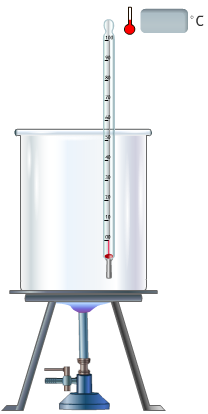
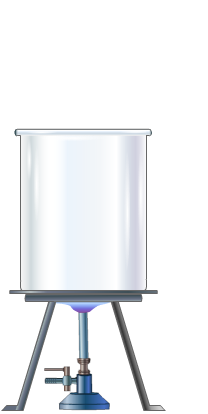
Feedback changes

Changed region(s): [[0.4904, 0.029, 0.5769, 0.6957], [0.5769, 0.0, 0.9808, 0.087]]

diff --git a/assets/js/main.js b/assets/js/main.js
@@ -78,12 +78,12 @@ $('.prevProcd').on('click', function () {
   $('.procdNum').text(procedCount + ")");
 });
 $('.nextProcd').on('click', function () {
-  if (procedCount < 6) {
+  if (procedCount < 5) {
     procedCount++;
     $('.nextProcd').css({ 'opacity': '1', 'pointer-events': 'all' });
     $('.prevProcd').css({ 'opacity': '1', 'pointer-events': 'all' });
   } else {
-    procedCount = 7;
+    procedCount = 6;
     $('.nextProcd').css({ 'opacity': '0.5', 'pointer-events': 'none' });
   }
   $('.procedSteps').css('display', 'none');
@@ -140,26 +140,37 @@ $('.closeProcd').on('mouseout', function () {
 
 $('.showObj').on('mouseover', function () {
   $(this).attr('src', 'assets/images/showObj.gif').css('cursor', 'pointer');
-  $('.contentContainer, .tableContainer, .mainstand, .graphTempVsTime, .threshold, .timerDiv').addClass("opac3")
-  if (procedCount == 1) {
+  $('.contentContainer, .tableContainer, .mainstand, .graphTempVsTime, .threshold, .timerDiv, .thermeterGroup, .standContainer .opactermometer').addClass("opac3")
 
-  }
-  if (procedCount == 2 || procedCount == 4) {
+  if (procedCount == 1 || procedCount == 3) {
     $(".standContainer .opacburner").show().removeClass("opac3")
   }
-  if (procedCount == 3) {
-    $(".standContainer .opactermometer").show().removeClass("opac3")
+  if (procedCount == 2) {
+    $(".standContainer .opactermometer").removeClass("opac3")
+    $(".standContainer .thermeterGroup").removeClass("opac3")
+  }
+  if (procedCount == 4) {
+    $(".threshold").removeClass("opac3")
+    $(".threshold .thresholdText").addClass("opac3")
+  }
+  if (procedCount == 5) {
+    $(".standContainer .opactermometer").removeClass("opac3")
+    $(".standContainer .thermeterGroup").removeClass("opac3")
+    $(".mainstand").removeClass("opac3");
+    $(".burner-base-opac").show();
   }
   if (procedCount == 6) {
-    $(".standContainer .opactermometer").show().removeClass("opac3")
+    $(".contentContainer").removeClass("opac3")
   }
 });
 
 $('.showObj').on('mouseout', function () {
   $(this).attr('src', 'assets/images/showObjM.gif');
-  $('.contentContainer, .tableContainer,.mainstand, .graphTempVsTime, .threshold, .timerDiv').removeClass("opac3")
+  $('.contentContainer, .tableContainer,.mainstand, .graphTempVsTime, .threshold, .timerDiv, .thermeterGroup').removeClass("opac3")
   $(".standContainer .opacburner").hide().removeClass("opac3")
-  $(".standContainer .opactermometer").hide().removeClass("opac3")
+  $(".standContainer .opactermometer").removeClass("opac3")
+  $(".threshold .thresholdText").removeClass("opac3")
+  $(".burner-base-opac").hide();
 });
 
 var timeSF2 = 20;
@@ -198,7 +209,7 @@ function ObserveHeating() {
   if (Temp2 > 30) {
     //water_mc.water_anim.gotoAndPlay(460);
     $(".boilingwater").show();
-    if($(".boilingwater").find("img").length<=0){
+    if ($(".boilingwater").find("img").length <= 0) {
       $(".boilingwater").append($('<img src="assets/images/crops/bbl-v2.gif">'))
     }
   }
@@ -209,8 +220,10 @@ function ObserveHeating() {
   updateTemperature(Temp2)
 }
 
-$(".burnerKnob").on('click', function () {
-  if ($(this).hasClass("off")) {
+$(".burnerKnob .layer1, .burnerKnob .layer2, .burnerKnob .layer3").on('click', function () {
+  //debugger;
+  
+  if ($(this).closest(".burnerKnob").hasClass("off")) {
     bur_mc_on()
   }
   else {
@@ -277,8 +290,29 @@ function bur_mc_off() {
   $(".threshold").show();
   $(".threshold .heatedToTempVal").text(Temp2);
   $(".burnerKnob").hide();
-  $(".boilingwater").hide();
+  //$(".boilingwater").hide();
   $(".boilingwater").empty();
+  if(Temp2>=30 && Temp2<40){
+    $(".boilingwater").append($('<img src="assets/images/crops/frame_30-40.gif">'))
+  }
+  if(Temp2>=40 && Temp2<50){
+    $(".boilingwater").append($('<img src="assets/images/crops/frame_40-50.gif">'))
+  }
+  if(Temp2>=50 && Temp2<60){
+    $(".boilingwater").append($('<img src="assets/images/crops/frame_50-60.gif">'))
+  }
+  if(Temp2>=60 && Temp2<70){
+    $(".boilingwater").append($('<img src="assets/images/crops/frame_60-70.gif">'))
+  }
+  if(Temp2>=70 && Temp2<80){
+    $(".boilingwater").append($('<img src="assets/images/crops/frame_70-80.gif">'))
+  }
+  if(Temp2>=80 && Temp2<90){
+    $(".boilingwater").append($('<img src="assets/images/crops/frame_80-90.gif">'))
+  }
+  if(Temp2>=90){
+    $(".boilingwater").append($('<img src="assets/images/crops/frame_90-100.gif">'))
+  }
 }
 function bur_mc_auto_off() {
   bur_mc_off();
@@ -327,7 +361,29 @@ function ObserveCooling() {
     }
     kp++;
   }
+  
   updateTemperature(currentTemp);
+  if(currentTemp<100 && currentTemp>=90){
+    $(".boilingwater img").attr("src","assets/images/crops/frame_90-100.gif");
+  }
+  if(currentTemp<90 && currentTemp>=80){
+    $(".boilingwater img").attr("src","assets/images/crops/frame_80-90.gif");
+  }
+  if(currentTemp<80 && currentTemp>=70){
+    $(".boilingwater img").attr("src","assets/images/crops/frame_70-80.gif");
+  }
+  if(currentTemp<70 && currentTemp>=60){
+    $(".boilingwater img").attr("src","assets/images/crops/frame_60-70.gif");
+  }
+  if(currentTemp<60 && currentTemp>=50){
+    $(".boilingwater img").attr("src","assets/images/crops/frame_50-60.gif");
+  }
+  if(currentTemp<50 && currentTemp>=40){
+    $(".boilingwater img").attr("src","assets/images/crops/frame_40-50.gif");
+  }
+  if(currentTemp<40 && currentTemp>=30){
+    $(".boilingwater").empty();
+  }
   //
   var exptTime2milliseconds = exptTime2 * 1000;
   $(".timerDiv .clockText").text(convertMilliseconds(exptTime2milliseconds, "mm:ss").clock);

diff --git a/index.html b/index.html
@@ -135,13 +135,18 @@
                   <div class="mainstand">
                      <div class="water"></div>
                      <div class="boilingwater"></div>
-                     <div class="termameterredbarwrapper">
-                        <div class="termameterredbar"></div>
-                     </div>
+                     
                      <div class="graphic-normal"><img src="assets/images/crops/graphic_normal.png"></div>
                      <div class="graphic-active"><img src="assets/images/crops/graphic_active.png"></div>
-                     <div class="burnerKnobdummy off"></div>
-                     <div class="burnerKnob off"></div>
+                     <!--<div class="burnerKnobdummy off"></div>-->
+                     <div class="burnerKnob off">
+                        <div class="layer1"></div>
+                        <div class="layer2"></div>
+                        <div class="layer3"></div>
+                     </div>
+                  </div>
+                  <div class="thermeterGroup">
+                     <div class="thermometer_icon"><img src="assets/images/crops/thermometer_icon.png"></div>
                      <div class="txtTemp">30</div>
                      <div class="degTemptxt">&deg;C</div>
                   </div>
@@ -149,10 +154,14 @@
                      <img src="assets/images/crops/burner_normal.png">
                   </div>
                   <div class="opactermometer">
+                     <div class="termameterredbarwrapper">
+                        <div class="termameterredbar"></div>
+                     </div>
                      <img src="assets/images/crops/thermometer.png">
                   </div>
                   <div class="opactermometer2"></div>
-                  <div></div>
+                  <div class="burner-base-opac">
+                  </div>
                </div>
                <div class="graphTempVsTime">
                   <!--div class="myChartBG"></div>-->
@@ -227,32 +236,32 @@
                      <div class="nextProcd"></div>
                      <img class="showObj" src="assets/images/showObjM.gif" />
                     
-                     <span class="showObjTxt">Show Object</span>
+                     <span class="showObjTxt">Show</span>
                      <img class="closeProcd closeProcdBefore" src="assets/images/closeUp.png" />
                      <span class="closeProcdTxt">CLOSE</span>
-                     <div class="procedSteps procedSteps1">
+                     <!--<div class="procedSteps procedSteps1">
                         <p>Specify a value between 20 and 240 as the timescale between the program time and the actual
                            experiment time.</p>
-                     </div>
-                     <div class="procedSteps procedSteps2">
+                     </div>-->
+                     <div class="procedSteps procedSteps1">
                         <p>Heat the water using the Bunsen burner. Click the burner to switch it on.</p>
                      </div>
-                     <div class="procedSteps procedSteps3">
+                     <div class="procedSteps procedSteps2">
                         <br>Observe the thermometer to know the increase in temperature of water.</p>
                      </div>
-                     <div class="procedSteps procedSteps4">
+                     <div class="procedSteps procedSteps3">
                         <p>You can switch off the burner any time to stop heating or wait until the temperature reaches
                            100 deg.</p>
                      </div>
-                     <div class="procedSteps procedSteps5">
+                     <div class="procedSteps procedSteps4">
                         <p>On reaching temperature of 100 deg or switching off the burner prior to that, you will be
                            prompted to go to the NEXT stage.</p>
                      </div>
-                     <div class="procedSteps procedSteps6">
+                     <div class="procedSteps procedSteps5">
                         <p>In Stage 2 of the experiment, you can observe the rate of cooling of water over a period of
                            time.</p>
                      </div>
-                     <div class="procedSteps procedSteps7">
+                     <div class="procedSteps procedSteps6">
                         <p>Click RESET to repeat the experiment.</p>
                      </div>
                   </div>

diff --git a/assets/css/main.css b/assets/css/main.css
@@ -458,7 +458,7 @@ b {
 .threshold {
   position: absolute;
   width: 290px;
-  top: 50px;
+  top: 150px;
   right: 280px;
   background-color: #f0f0f0;
   border: 1px solid #A0B4B0;
@@ -605,7 +605,7 @@ b {
   position: absolute;
   font-size: 12px;
   bottom: 35px;
-  right: 12px;
+  right: 42px;
   font-weight: bold;
   /*font-family: 'Trebuchet MS';*/
   color: #333333;
@@ -639,6 +639,16 @@ b {
   color: #333333;
   pointer-events: none;
   display: none;
+}
+.highcharts-axis-labels.highcharts-yaxis-labels text{
+  color: #000000 !important;
+  fill: #000000 !important;
+  font-weight: bold;
+}
+.highcharts-axis-labels.highcharts-xaxis-labels text{
+  color: #000000 !important;
+  fill: #000000 !important;
+  font-weight: bold;
 }
 
 .procedSteps1 {
@@ -761,8 +771,8 @@ b {
 
 .termameterredbarwrapper {
   position: absolute;
-  bottom: 188px;
-  left: 114px;
+  top: 22px;
+  left: 6px;
   width: 2px;
   height: 213px;
   z-index: 1;
@@ -770,12 +780,17 @@ b {
 
 .termameterredbar {
   position: absolute;
-  background-color: #ff2e2e;
+  background-color: #F91E50;
   opacity: 0.6;
   bottom: 0;
   left: 0;
   width: 2px;
   height: 30%;
+}
+.thermometer_icon{
+  position: absolute;
+  left: 134px;
+  top: -1px;
 }
 
 .burnerKnob, .burnerKnobdummy {
@@ -784,7 +799,39 @@ b {
   height: 119px;
   left: 51px;
   bottom: 7px;
+  
+}
+.burnerKnob .layer1{
+  position: absolute;
+  width: 12px;
+  height: 50px;
+  left: 31px;
+  top: 14px;
   cursor: pointer;
+  /*background: red;
+  opacity: 0.7;*/
+}
+.burnerKnob .layer2{
+  position: absolute;
+    width: 52px;
+    height: 36px;
+    right: 24px;
+    top: 63px;
+    cursor: pointer;
+    /*
+    background: green;
+    opacity: 0.7;*/
+}
+.burnerKnob .layer3{
+  position: absolute;
+    width: 54px;
+    height: 19px;
+    right: 6px;
+    top: 99px;
+    cursor: pointer;
+    /*
+    background: yellow;
+    opacity: 0.6;*/
 }
 
 .graphTempVsTime {
@@ -845,7 +892,7 @@ b {
   position: absolute;
     width: 354px;
     bottom: 51px;
-    left: 60px;
+    left: 61px;
 }
 
 .y-axis-line {
@@ -883,7 +930,7 @@ b {
   height: 44px;
   top: 16px;
   left: 108px;
-  display: none;
+  /*display: none;*/
 }
 
 .opactermometer img {
@@ -923,6 +970,20 @@ body[browser='safari'] .myChartBG {}
 .mainstand {
   width: 100%;
   height: 100%;
+}
+.thermeterGroup{
+  position: absolute;
+    width: 100%;
+    top: 0px;
+}
+.burner-base-opac{
+  position: absolute;
+  width: 100%;
+  bottom: 7px;
+  height: 128px;
+  background-color: #FFFFFF;
+  opacity: 0.6;
+  display: none;
 }
 
 .opac3 {

diff --git a/assets/js/TimeFactorObject.js b/assets/js/TimeFactorObject.js
@@ -136,7 +136,8 @@ var WaterCoolingChart = (function () {
                     minorGridLineWidth: 0,
                     minorTickInterval: 2,
                     minorTickLength: 10,
-                    minorTickWidth: 1
+                    minorTickWidth: 1,
+                    gridLineColor: '#ACBCC4'
                 },
                 title: false,
                 subtitle:false,
@@ -162,7 +163,8 @@ var WaterCoolingChart = (function () {
                     minorTickInterval: 10,
                     minorTickLength: 10,
                     majorTickLength: 10,
-                    minorTickWidth: 1
+                    minorTickWidth: 1,
+                    gridLineColor: '#ACBCC4'
                 },
                 legend: {
                     enabled: false
